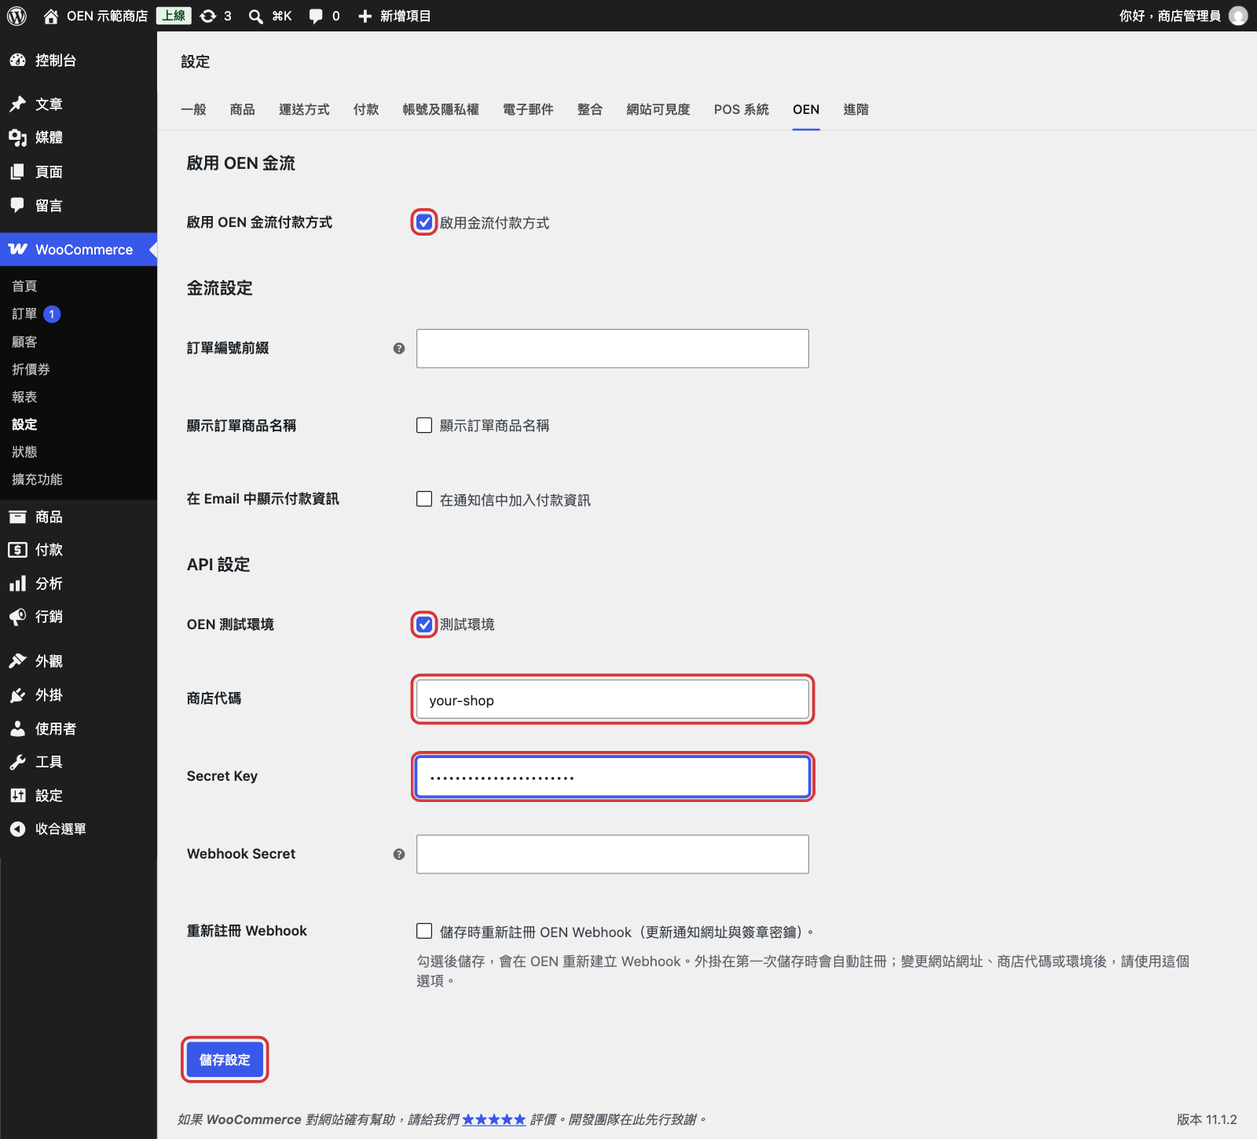
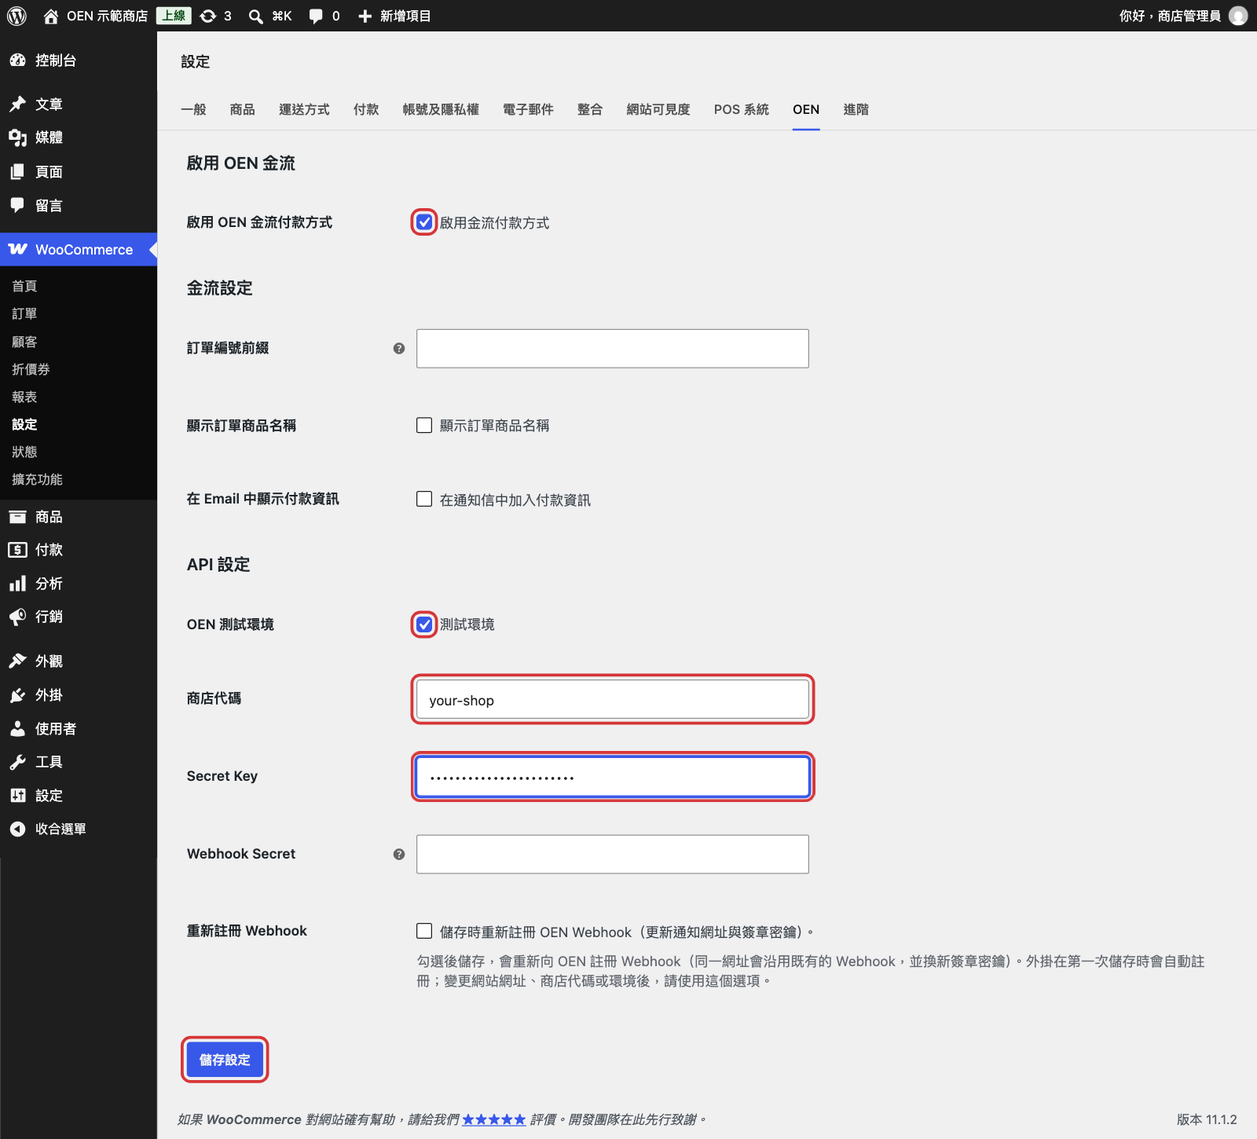
docs: address the reverse verification
- CVS payment code in emails: the on-hold email goes out before the code
  exists and the plugin sends no email when it arrives. Say so, and show
  how to resend the order details.
- Payment-method switch: the old OEN payment is cancelled only when the
  buyer goes from OEN Credit to OEN Cvs on the same order. Describe the
  other direction and the note shown when cancelling fails.
- FAQ: add the buyer-facing 「付款處理失敗」 notice and its oen-payment log
  causes; extend the signature-error, stale-webhook and refund-409 rows.
- Refunds made in the OEN back office: check the order before recording
  one manually; note in the developer table that they send no event.
- Installation: the ZIP layout, the 「找不到有效的外掛」 error and how to
  update.
- Use 金流編號 as the plugin UI does; say CVS orders stay on hold because
  OEN sends no expiry for a payment with a code; drop the Live-mode remark.
- Images: crop the returnUrl allowlist card out of 02 and 03 and say the
  plugin does not need it; retake 09, 10, 11 and 32 for the new
  re-register help text; rebuild faq-logs with demo values.

Changed region(s): [[0.3438, 0.8379, 0.9688, 0.869], [0.0312, 0.2483, 0.0625, 0.2793]]

diff --git a/README.md b/README.md
@@ -68,9 +68,9 @@
 - **應援付款頁收款**：消費者在應援付款頁完成付款，付款頁由應援提供與維護。
 - **自動連接應援**：儲存設定時，外掛自動向應援註冊 Webhook 並保存簽章密鑰，不需要到應援後台手動設定。
 - **付款結果向應援確認**：收到應援的付款通知後，外掛會再向應援查詢，訂單編號與金額都一致才更新訂單。
-- **超商繳費代碼同步**：自動向應援取得繳費代碼，顯示在消費者的訂單頁、後台訂單頁與通知信。
+- **超商繳費代碼同步**：自動向應援取得繳費代碼，顯示在消費者的訂單頁與後台訂單頁，也可以附在之後寄出的通知信（見[超商繳費代碼](#超商繳費代碼)）。
 - **後台退款**：在 WooCommerce 後台退款會通知應援退款，應援確認後才記錄到 WooCommerce。
-- **防止重複付款**：同一張訂單重複送出結帳時，沿用同一筆應援付款；消費者改選另一種應援付款方式時，外掛會取消舊的應援付款。
+- **防止重複付款**：同一張訂單重複送出結帳時，沿用同一筆應援付款；消費者在同一張訂單從 OEN 信用卡改選 OEN 超商繳費時，外掛會取消舊的應援付款。
 - **發票**：外掛不傳送、也不儲存任何發票資料。應援提供發票代開服務，透過本外掛成立的交易如何開立發票，請向應援確認。
 - 應援測試環境與正式環境一鍵切換。
 - 支援傳統結帳頁與區塊結帳（Cart & Checkout Blocks），相容 WooCommerce HPOS（高效能訂單儲存）。
@@ -111,10 +111,12 @@
 ## 安裝
 
 1. 從 [GitHub Releases](https://github.com/OEN-Tech/woocommerce-oen-payment/releases) 下載最新版的「Source code (zip)」。
-2. 解壓縮後，把資料夾（例如 `woocommerce-oen-payment-1.0.4`）改名為 `woocommerce-oen-payment`，再重新壓縮成 ZIP。
+2. 解壓縮後，把資料夾（例如 `woocommerce-oen-payment-1.0.4`）改名為 `woocommerce-oen-payment`，再重新壓縮成 ZIP。ZIP 的第一層必須是 `woocommerce-oen-payment` 資料夾，裡面直接是 `woocommerce-oen-payment.php`。
 3. 到 **外掛 › 安裝外掛 › 上傳外掛**，選擇 ZIP 後按「立即安裝」，完成後按「啟用外掛」。
 
-資料夾名稱要固定為 `woocommerce-oen-payment`，日後上傳新版時 WordPress 才會更新原本的外掛，而不是另外裝一份。
+- 資料夾名稱要固定為 `woocommerce-oen-payment`。名稱不同時外掛仍能啟用，但日後上傳新版時 WordPress 不會取代它，而是另外裝一份；已有一份啟用時，另一份無法啟用。
+- 上傳時出現「找不到有效的外掛」，代表 ZIP 多包了一層資料夾（Windows 的「全部解壓縮」常會這樣）。請壓縮裡面那一層 `woocommerce-oen-payment` 資料夾。
+- **更新外掛**：用同樣的方式準備新版 ZIP 並上傳。WordPress 會顯示「這個外掛已安裝」與版本比較，按「使用已上傳版本取代現有版本」。設定與訂單資料會保留。
 
 ## 快速設定
 
@@ -137,13 +139,13 @@
 | 設定 | 說明 |
 |---|---|
 | 啟用 OEN 金流付款方式 | 主開關。關閉時所有應援付款方式都不會出現 |
-| 訂單編號前綴 | 加在 WooCommerce 訂單 ID 前面，組成送給應援的訂單編號。訂單 ID 預設與訂單編號相同；使用自訂訂單編號的外掛時，以訂單 ID 為準。**有未付款訂單時請勿更改**：這些訂單再次進入結帳時，會因訂單編號與既有的應援付款不符而被拒絕 |
+| 訂單編號前綴 | 加在 WooCommerce 訂單 ID 前面，組成送給應援的訂單編號。訂單 ID 預設與訂單編號相同；使用自訂訂單編號的外掛時，以訂單 ID 為準。**有未付款訂單時請勿更改**：已進入過應援付款頁的訂單再次結帳時，會因訂單編號與既有的應援付款不符而被擋下。要恢復，請改回原本的前綴，或請消費者重新下單 |
 | 顯示訂單商品名稱 | 送出逐項商品明細，而非單一彙總品項 |
-| 在 Email 中顯示付款資訊 | 在訂單通知信加入交易編號、付款時間、超商繳費代碼 |
+| 在 Email 中顯示付款資訊 | 在訂單通知信加入金流編號、付款時間、超商繳費代碼 |
 | OEN 測試環境 | 連線應援測試環境 |
 | 商店代碼 | 應援後台的「網域名稱」 |
 | Secret Key | 應援後台產生的 Secret Key |
-| Webhook Secret | Webhook 簽章密鑰，註冊時自動填入，請留空。沒有這個密鑰時，外掛不會接受應援的退款通知 |
+| Webhook Secret | Webhook 簽章密鑰，註冊時自動填入，不需要也不要自行修改。沒有這個密鑰時，外掛不會接受應援的退款通知。欄位被清空時，勾選「重新註冊 Webhook」再儲存，即可重新取得 |
 | 重新註冊 Webhook | 一次性勾選，儲存時重新註冊 Webhook 並換新簽章密鑰 |
 
 ### WooCommerce › 設定 › 付款 › OEN 信用卡／OEN 超商繳費
@@ -196,7 +198,13 @@ https://<你的網站>/?wc-api=oen_payment
 
 訂單狀態只在外掛向應援查詢確認後才改變，訂單編號與金額都要和訂單一致。消費者回到「已收到訂單」頁本身不會改變訂單狀態。
 
-同一張未付款訂單再次送出結帳時（例如消費者按上一頁後重新付款），外掛會沿用同一筆應援付款。消費者改選另一種應援付款方式（例如從 OEN 信用卡改為 OEN 超商繳費）時，外掛會建立新的應援付款並取消舊的；改選非應援的付款方式時，外掛不會取消舊的應援付款。無法確認既有應援付款的狀態時，外掛會先擋下結帳並顯示錯誤，避免同一張訂單出現兩筆可付款的應援付款。
+同一張未付款訂單再次送出結帳時（例如消費者按上一頁後重新付款），外掛會沿用同一筆應援付款。
+
+消費者在同一張訂單從 OEN 信用卡改選 OEN 超商繳費時，外掛會建立新的應援付款並取消舊的。舊的應援付款無法取消時，訂單備註會出現「改選付款方式後，無法取消這張訂單先前的 OEN 付款。…」，退款前請先到應援後台確認是否重複付款。
+
+從 OEN 超商繳費改選 OEN 信用卡時，超商繳費訂單已經是「保留」，WooCommerce 會建立新訂單。原本的訂單維持「保留」，它的應援付款不會被取消。消費者之後若仍用那組代碼繳費，那張訂單會改為「處理中」，請確認是否重複付款。改選非應援的付款方式時，外掛也不會取消舊的應援付款。
+
+無法確認既有應援付款的狀態時，外掛會先擋下結帳，避免同一張訂單出現兩筆可付款的應援付款。消費者會看到「付款處理失敗，請再試一次或聯絡客服。」，原因與處理方式見 [FAQ](docs/faq.md#消費者結帳時看到付款處理失敗)。已進入過應援付款頁的訂單，在後台改了金額後也會被擋下，請改請消費者重新下單。
 
 付款失敗被導回傳統結帳頁時，外掛會顯示失敗原因（例如「信用卡已過期。」「信用額度不足。」），不會把應援的錯誤細節顯示給消費者。
 
@@ -208,13 +216,13 @@ https://<你的網站>/?wc-api=oen_payment
 
 - 消費者：「已收到訂單」頁、我的帳號 › 訂單。
 - 商家：後台訂單頁的帳單地址下方。
-- 通知信：需勾選「在 Email 中顯示付款資訊」。
+- 通知信：需勾選「在 Email 中顯示付款資訊」。訂單轉為「保留」時寄出的通知信還沒有代碼，外掛取得代碼後也不會另外寄信。需要寄給消費者時，在後台訂單頁的「訂單動作」選「將訂單詳細資料傳送給顧客」。
 
 繳費期限依網站的時區與日期、時間格式顯示（**設定 › 一般**）。
 
 第一次查詢約在下單後 1 分鐘。所以消費者從應援完成頁按「返回網站」時，「已收到訂單」頁通常還沒有代碼；應援完成頁本身有顯示代碼。
 
-已取得代碼的訂單，超過應援付款頁的付款時限後仍維持「保留」，不會變成「失敗」，消費者可以在繳費期限內繳費。
+已取得繳費代碼的付款，到了應援付款頁的付款時限時，應援不會送出逾期通知，所以訂單仍維持「保留」，消費者可以在繳費期限內繳費。
 
 ## 退款
 
@@ -228,7 +236,7 @@ https://<你的網站>/?wc-api=oen_payment
 
 > 請不要按「手動退款」。手動退款只會在 WooCommerce 記錄退款，**不會**通知應援把款項退給消費者。
 
-**已在應援後台退款時**：在應援後台退款不會同步到 WooCommerce，訂單狀態與金額不會改變。請在 WooCommerce 訂單按「退費」，輸入相同金額，按「手動退款」補記錄。不要再按「透過 OEN 信用卡 退款」：應援可能回應錯誤，也可能再退一次款給消費者。建議退款都從 WooCommerce 發起，兩邊的紀錄才會一致。
+**已在應援後台退款時**：在應援後台退款不會同步到 WooCommerce，訂單狀態與金額不會改變。請先確認訂單上還沒有這筆退款，再按「退費」，輸入相同金額，按「手動退款」補記錄。不要再按「透過 OEN 信用卡 退款」：應援可能回應錯誤，也可能再退一次款給消費者。建議退款都從 WooCommerce 發起，兩邊的紀錄才會一致。
 
 ## 傳送給應援的資料
 
@@ -329,7 +337,7 @@ sequenceDiagram
 | `checkout_session.expired` | 同上 |
 | `checkout_session.cancelled` | 同上 |
 | `refund.created` | 僅回應 200，不動作 |
-| `refund.succeeded` | 建立對應的 WooCommerce 退款（只記錄金額，不回補庫存）；以應援退款 ID 去重，從 WooCommerce 發起的退款不會重複記錄 |
+| `refund.succeeded` | 建立對應的 WooCommerce 退款（只記錄金額，不回補庫存）；以應援退款 ID 去重，從 WooCommerce 發起的退款不會重複記錄。應援後台發起的退款目前不會送出這個事件（見[退款](#退款)） |
 
 - 已設定 Webhook Secret 時，外掛驗證 `OenPay-Signature`；未設定時，付款事件不驗簽（仍會向應援查詢確認），退款事件一律拒絕。
 - 外掛以非 2xx 回應表示事件沒有處理完成，並預期應援重送該事件；重送的次數與間隔依應援平台的規則。
@@ -389,7 +397,7 @@ sequenceDiagram
 | `_oen_session_id` | 目前付款嘗試的應援付款 ID |
 | `_oen_checkout_url` | 目前的應援付款頁網址 |
 | `_oen_payment_method` | 建立付款時的付款方式（`card`／`cvs`） |
-| `_oen_transaction_id`／`_oen_transaction_hid` | 應援交易編號（付款完成後以查詢結果為準） |
+| `_oen_transaction_id`／`_oen_transaction_hid` | 應援交易 ID／金流編號（付款完成後以查詢結果為準） |
 | `_oen_paid_at` | 付款確認時間 |
 | `_oen_cvs_code`／`_oen_cvs_name`／`_oen_cvs_expired_at` | 超商繳費代碼、超商名稱、繳費期限（應援回傳的原始值，顯示時才轉換時區） |
 | `_oen_processed_refund_ids` | 已同步的應援退款 ID |

diff --git a/docs/setup-guide.md b/docs/setup-guide.md
@@ -2,7 +2,7 @@
 
 本文件帶你從申請應援商店開始，一路完成取得憑證、安裝、連接應援、試收款，到正式上線。
 
-截圖取自實際操作（2026-09-29），包含應援後台、應援付款頁與 WooCommerce 後台。畫面中的網域名稱、交易編號、退款編號、繳費代碼、Webhook ID 與買家資料都已換成示範值或遮蔽，金鑰欄位也已遮蔽。應援後台的畫面可能與你看到的略有不同。
+截圖取自實際操作（2026-09-29），包含應援後台、應援付款頁與 WooCommerce 後台。畫面中的網域名稱、金流編號、退款編號、繳費代碼、Webhook ID 與買家資料都已換成示範值或遮蔽，金鑰欄位也已遮蔽。應援後台的畫面可能與你看到的略有不同。
 
 - 外掛介紹與串接技術說明：[README](../README.md)
 - 常見問題：[faq.md](faq.md)
@@ -64,7 +64,7 @@
 
    ![產生金鑰](images/02-crm-embed-generate-key.png)
 
-3. 對話框會提醒這是高風險操作。輸入你的網域名稱確認，再按「產生金鑰」。對話框中的「Live 模式」是應援後台的固定文字；金鑰屬於你目前登入的應援環境（測試或正式）。
+3. 對話框會提醒這是高風險操作。輸入你的網域名稱確認，再按「產生金鑰」。對話框的說明文字以應援後台為準；產生的金鑰屬於你目前登入的應援環境（測試或正式）。
 
    ![輸入網域名稱確認](images/03-crm-embed-confirm-domain.png)
 
@@ -76,6 +76,7 @@
 > **注意**
 > - 外掛只需要 Secret Key，不需要 Publishable Key。
 > - 「開發者」分頁的「存取 Token」不是外掛要用的金鑰。
+> - 使用本外掛不需要設定同一頁的「允許的 returnUrl 網域」，那裡的警告不影響本外掛。
 > - 找不到「OenPay Embed」分頁時，代表應援還沒替你的商店開通，或登入的帳號沒有查看 API 串接的權限；請先確認帳號權限，再聯絡應援。按鈕無法使用時，請確認登入的帳號有管理 API 串接的權限。
 > - 例行更換金鑰時，按「重新產生金鑰」，並立即把新的 Secret Key 填回外掛設定頁。**Secret Key 外洩時**，先按「撤銷」停用這個網域的金鑰，再按「產生金鑰」並填回外掛；撤銷後到填入新金鑰之前，外掛無法連線到應援。
 > - Secret Key 等同密碼。請勿傳給他人、貼到公開的地方，或出現在截圖中。
@@ -86,9 +87,9 @@
 
 1. 前往 [GitHub Releases](https://github.com/OEN-Tech/woocommerce-oen-payment/releases)，下載最新版的「Source code (zip)」。
 2. 解壓縮後，將資料夾（例如 `woocommerce-oen-payment-1.0.4`）改名為 **`woocommerce-oen-payment`**。
-3. 將改名後的資料夾重新壓縮成 `woocommerce-oen-payment.zip`。
+3. 將改名後的資料夾重新壓縮成 `woocommerce-oen-payment.zip`。ZIP 的第一層必須是 `woocommerce-oen-payment` 資料夾，裡面直接是 `woocommerce-oen-payment.php`。
 
-資料夾名稱要固定為 `woocommerce-oen-payment`，日後上傳新版時 WordPress 才會更新原本的外掛，而不是另外裝一份。
+資料夾名稱要固定為 `woocommerce-oen-payment`。名稱不同時外掛仍能啟用，但日後上傳新版時 WordPress 不會取代它，而是另外裝一份；已有一份啟用時，另一份無法啟用。日後更新外掛時，用同樣的方式準備新版 ZIP 並上傳，再按「使用已上傳版本取代現有版本」，步驟見 [README 的安裝說明](../README.md#安裝)。
 
 ### 上傳並啟用
 
@@ -143,7 +144,7 @@
 |---|---|
 | 訂單編號前綴 | 加在 WooCommerce 訂單 ID 前面，組成送給應援的訂單編號。**有未付款訂單時請勿更改** |
 | 顯示訂單商品名稱 | 勾選後把逐項商品明細送給應援；未勾選時只送一筆「{網站名稱} 訂單」 |
-| 在 Email 中顯示付款資訊 | 在訂單通知信中加入應援交易編號、付款時間、超商繳費代碼 |
+| 在 Email 中顯示付款資訊 | 在訂單通知信中加入應援金流編號、付款時間、超商繳費代碼 |
 
 ### 確認已連上應援
 
@@ -174,7 +175,7 @@
 通知網址由 WordPress 的網站網址（**設定 › 一般**）組成。網站網址若是內網位址或 `localhost`，應援就無法送達通知；正式上線前請確認網站網址是從公網可以連線的網址。
 
 > **注意**
-> - 若出現「OEN Webhook 自動註冊失敗：…」，代表設定已儲存，但外掛沒有連上應援完成註冊，請參考 [FAQ](faq.md#儲存設定時出現oen-webhook-自動註冊失敗)。
+> - 若出現「OEN Webhook 自動註冊失敗：…」，代表設定已儲存，但外掛沒有連上應援完成註冊。這時畫面不會出現「設定已儲存。」，但設定已經儲存。處理方式請參考 [FAQ](faq.md#儲存設定時出現oen-webhook-自動註冊失敗)。
 > - 外掛註冊的 Webhook 不會列在應援後台「OenPay Embed Webhook 健康狀態」的「已註冊的 Webhook」，那裡會顯示「尚未註冊 Webhook，OenPay 事件無法送達您的系統。」。這不影響外掛接收付款通知，也不需要在應援後台另外「新增 Webhook」。詳見 [FAQ](faq.md#應援後台顯示尚未註冊-webhook)。
 
 ## 步驟 5：開啟應援付款方式
@@ -252,7 +253,7 @@
 **信用卡訂單**
 
 - 狀態為「處理中」。
-- 訂單標題下方顯示應援交易編號與付款時間。
+- 訂單標題下方顯示應援金流編號與付款時間。
 - 訂單備註出現「OEN 付款完成（已向 OEN 確認）。金流編號：…」，代表外掛已向應援確認付款。
 
 ![信用卡訂單](images/24-admin-order-card.png)
@@ -262,12 +263,14 @@
 - 訂單建立後為「保留」，等待消費者繳費。
 - 外掛會在訂單進入保留後，約 1、4、14、44 分鐘各向應援查詢一次繳費代碼，共 4 次，取得後就停止。查詢由 WordPress 的排程（WP-Cron）執行，網站沒有人瀏覽時會延後。
 - 取得代碼後，帳單地址下方顯示「OEN 繳費代碼」（繳費代碼、超商、繳費期限），訂單備註出現「已取得 OEN 繳費代碼：…」。繳費期限依網站的時區與日期、時間格式（**設定 › 一般**）顯示。
-- 已取得代碼的訂單，超過應援付款頁的付款時限後仍維持「保留」，消費者可以在繳費期限內繳費。
+- 已取得繳費代碼的付款，到了應援付款頁的付款時限時，應援不會送出逾期通知，所以訂單仍維持「保留」，消費者可以在繳費期限內繳費。
 - 消費者繳費後，應援通知外掛，訂單改為「處理中」。
 
 ![超商繳費訂單](images/25-admin-order-cvs.png)
 
-消費者可在「已收到訂單」頁與「我的帳號 › 訂單」的「付款資訊」看到繳費超商、繳費代碼與繳費期限。訪客之後再開啟「已收到訂單」頁時，WooCommerce 會先要求輸入下單的 Email。勾選「在 Email 中顯示付款資訊」時，訂單通知信也會附上代碼。
+消費者可在「已收到訂單」頁與「我的帳號 › 訂單」的「付款資訊」看到繳費超商、繳費代碼與繳費期限。訪客之後再開啟「已收到訂單」頁時，WooCommerce 會先要求輸入下單的 Email。
+
+勾選「在 Email 中顯示付款資訊」時，只有取得代碼之後寄出的通知信才會附上代碼。訂單轉為「保留」時寄出的通知信還沒有代碼，外掛取得代碼後也不會另外寄信。需要寄給消費者時，在後台訂單頁的「訂單動作」選「將訂單詳細資料傳送給顧客」。
 
 ![消費者看到的繳費代碼](images/26-customer-cvs-code.png)
 
@@ -289,7 +292,7 @@
 
 **已在應援後台退款時**
 
-在應援後台「金流管理」的交易明細按「退款」，款項會退給消費者，但**不會**同步到 WooCommerce：訂單狀態與金額都不會改變。這時請在 WooCommerce 訂單按「退費」，輸入相同金額，改按「**手動退款**」，只補記錄。不要再按「透過 OEN 信用卡 退款」：應援可能回應錯誤，也可能再退一次款給消費者。
+在應援後台「金流管理」的交易明細按「退款」，款項會退給消費者，但**不會**同步到 WooCommerce：訂單狀態與金額都不會改變。這時請先確認訂單上還沒有這筆退款，再按「退費」，輸入相同金額，改按「**手動退款**」，只補記錄。不要再按「透過 OEN 信用卡 退款」：應援可能回應錯誤，也可能再退一次款給消費者。
 
 建議所有退款都從 WooCommerce 發起，兩邊的紀錄才會一致。
 
@@ -303,7 +306,7 @@
 
 | 應援後台 | WooCommerce |
 |---|---|
-| 金流編號 | 訂單標題下方的交易編號 |
+| 金流編號 | 訂單標題下方括號內的編號（訂單備註與通知信中的「金流編號」） |
 | 訂單編號 | 「訂單編號前綴」加上 WooCommerce 訂單 ID。訂單 ID 預設與訂單編號相同，例如前綴設為 `WC-`、訂單 #21，就是 `WC-21`；沒有設定前綴時就是 `21`。使用自訂訂單編號的外掛時，以訂單 ID 為準 |
 | 收取金額、金流狀態 | 訂單總額、訂單狀態 |
 

diff --git a/CHANGELOG.md b/CHANGELOG.md
@@ -4,11 +4,11 @@
 
 ## 1.0.4
 
-- 修正：消費者回上一頁改選另一種應援付款方式時，外掛會建立新的應援付款並取消舊的；先前會把消費者導回剛放棄的付款方式。
+- 修正：消費者從 OEN 信用卡回上一頁、在同一張訂單改選 OEN 超商繳費時，外掛會建立新的應援付款並取消舊的；先前會把消費者導回剛放棄的付款方式。舊的應援付款無法取消時，訂單備註會提醒商家退款前先確認是否重複付款。
 - 修正：改選付款方式導致訂單金額改變（例如不同付款方式的手續費不同）時，不再被擋下而無法付款。
-- 修正：後台退款失敗時，同時送達的應援退款通知不再遺失。
+- 修正：後台退款失敗時，同時送達的應援退款通知不再遺失。從 WooCommerce 退款時，應援後台的「投遞失敗事件」可能出現一筆這次退款的通知（HTTP 409），不需要處理。
 - 修正：超商繳費期限改以網站的時區與日期、時間格式顯示；先前直接顯示應援回傳的 UTC 時間，比台灣時間早 8 小時。
-- 翻譯：補齊繁體中文翻譯。先前在繁體中文網站上，付款資訊、「重新註冊 Webhook」設定、Webhook 註冊訊息、訂單備註、結帳與退款錯誤訊息，以及應援 API 錯誤訊息仍顯示英文。
+- 翻譯：補齊繁體中文翻譯。先前在繁體中文網站上，付款資訊、OEN 設定頁的「重新註冊 Webhook」與「Webhook Secret」說明、Webhook 註冊訊息、訂單備註、結帳與退款錯誤訊息，以及應援 API 錯誤訊息仍顯示英文；送給應援的尾差調整品項也改為「訂單調整」。
 - 相容性：測試至 WordPress 7.1、WooCommerce 11.1。
 
 ## 1.0.3
